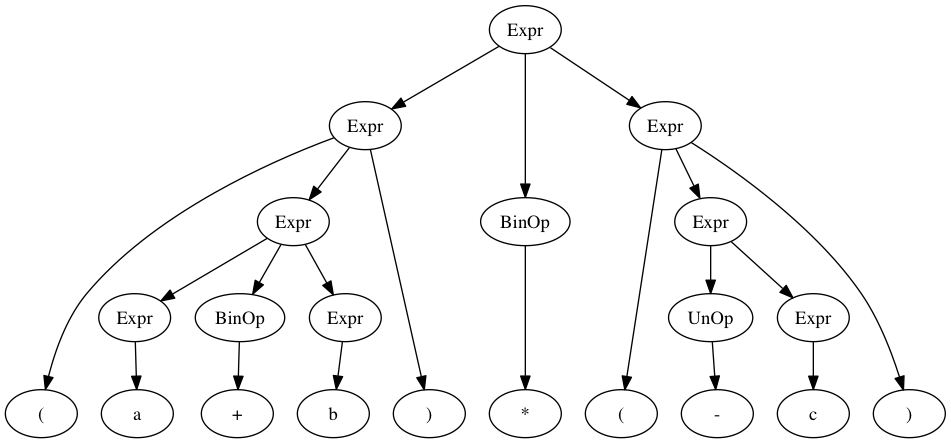
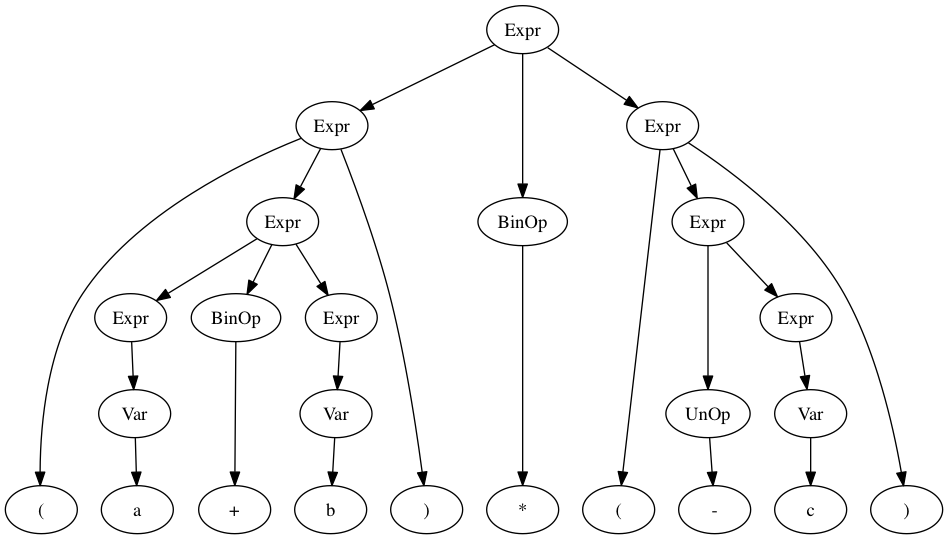
Chain eliminations are stored and reintroduced when returning a finished syntax tree, thereby hiding the eliminations performed by the reductions to Chomsky Normal Form.

diff --git a/Sources/ContextFree/Grammar.swift b/Sources/ContextFree/Grammar.swift
@@ -58,40 +58,65 @@ public struct Grammar {
 		return (try? generateSyntaxTree(for: word)) != nil
 	}
 	
+	private func tokenize(word: String, from startIndex: String.Index, finalProductions: [Production]) throws -> [[Tree<Production, Range<String.Index>>]] {
+		if word[startIndex...].isEmpty {
+			return []
+		}
+		let matches = finalProductions.filter { production -> Bool in
+			word.hasPrefix(production.generatedTerminals, from: startIndex)
+		}
+		guard let first = matches.first, let firstMatchRange = word.rangeOfPrefix(first.generatedTerminals, from: startIndex) else {
+			throw SyntaxError.unknownSequence(from: String(word[startIndex...]))
+		}
+		
+		let restTokenization = try tokenize(word: word, from: firstMatchRange.upperBound, finalProductions: finalProductions)
+		let matchTrees = matches.flatMap { production -> Tree<Production, Range<String.Index>>? in
+			Tree(key: production, children: [Tree(value: firstMatchRange)])
+		}
+		//TODO: Make this method tail recursive
+		return [matchTrees] + restTokenization
+	}
+	
+	private func generateError(_ cykTable: Array<[[Tree<Production, Range<String.Index>>]]>) -> SyntaxError {
+		let memberRows = (0..<cykTable.count).map { columnIndex -> Int? in
+			(0 ..< (cykTable.count - columnIndex)).reduce(nil) { maxIndex, rowIndex -> Int? in
+				if cykTable[rowIndex][columnIndex].contains(where: { tree -> Bool in
+					tree.root?.pattern == start
+				}) {
+					return rowIndex
+				}
+				return maxIndex
+			}
+		}
+		
+		if let firstMember = memberRows[0] {
+			return SyntaxError.unmatchedPattern(pattern: remakeSingularProductions(cykTable[0][firstMember+1][0]))
+		} else {
+			return SyntaxError.unmatchedPattern(pattern: remakeSingularProductions(cykTable[0][0][0]))
+		}
+	}
+	
+	private func remakeSingularProductions(_ tree: Tree<Production, Range<String.Index>>) -> Tree<NonTerminal, Range<String.Index>> {
+		switch tree {
+		case .leaf(let leaf):
+			return .leaf(leaf)
+			
+		case .node(key: let production, children: let children):
+			guard let chain = production.nonTerminalChain else {
+				return .node(key: production.pattern, children: children.map(remakeSingularProductions))
+			}
+			let newNode = chain.reversed().reduce(children.map(remakeSingularProductions)) { (childNodes, nonTerminal) -> [Tree<NonTerminal, Range<String.Index>>] in
+				[Tree.node(key: nonTerminal, children: childNodes)]
+			}
+			return .node(key: production.pattern, children: newNode)
+		}
+	}
+	
 	public func generateSyntaxTree(`for` word: String) throws -> Tree<NonTerminal, Range<String.Index>> {
 		let finalProductions = productions.filter(\.isFinal)
 		
 		// Tokenizes a word based on the production rules
-		func tokenize(word: String, from startIndex: String.Index) throws -> [[Tree<NonTerminal, Range<String.Index>>]] {
-			if word[startIndex...].isEmpty {
-				return []
-			}
-			let matches = finalProductions.filter { production -> Bool in
-				word.hasPrefix(production.generatedTerminals, from: startIndex)
-			}
-			guard let first = matches.first, let firstMatchRange = word.rangeOfPrefix(first.generatedTerminals, from: startIndex) else {
-				throw SyntaxError.unknownSequence(from: String(word[startIndex...]))
-			}
-			
-			//let firstMatchString = String(word[firstMatchRange])
-			
-			//TODO: Do not cut string, just instruct subsequent calls to only search after match range
-			// This would also improve performance
-//			let rest = { () -> String in
-//				var rest = word
-//				rest.removeSubrange(firstMatchRange)
-//				return rest
-//			}()
-			
-			let restTokenization = try tokenize(word: word, from: firstMatchRange.upperBound)
-			let matchTrees = matches.flatMap { production -> Tree<NonTerminal, Range<String.Index>>? in
-				Tree(key: production.pattern, children: [Tree(value: firstMatchRange)])
-			}
-			//TODO: Make this method tail recursive
-			return [matchTrees] + restTokenization
-		}
-		
-		let tokenization = try tokenize(word: word, from: word.startIndex)
+		let tokenization = try tokenize(word: word, from: word.startIndex, finalProductions: finalProductions)
 		let nonTerminalProductions = Dictionary(grouping: productions.filter{!$0.isFinal}) { production -> NonTerminalString in
 			NonTerminalString(characters: production.generatedNonTerminals)
 		}
@@ -108,24 +133,24 @@ public struct Grammar {
 		
 		// CYK-Algorithm
 		
-		var cykTable = Array<[[Tree<NonTerminal, Range<String.Index>>]]>(repeating: [], count: tokenization.count)
+		var cykTable = Array<[[Tree<Production, Range<String.Index>>]]>(repeating: [], count: tokenization.count)
 		cykTable[0] = tokenization
 		
 		for row in 1 ..< cykTable.count {
 			let upperBound = cykTable.count - row
 			
-			cykTable[row] = (0..<upperBound).map { column -> [Tree<NonTerminal, Range<String.Index>>] in
-				(1...row).flatMap { offset -> [Tree<NonTerminal, Range<String.Index>>] in
+			cykTable[row] = (0..<upperBound).map { column -> [Tree<Production, Range<String.Index>>] in
+				(1...row).flatMap { offset -> [Tree<Production, Range<String.Index>>] in
 					let ref1Row = row - offset
 					let ref2Col = column + row - offset + 1
 					let ref2Row = offset - 1
 					
-					return crossProduct(cykTable[ref1Row][column], cykTable[ref2Row][ref2Col]).flatMap { nonTerminals -> [Tree<NonTerminal, Range<String.Index>>] in
-						let (leftNonTerminal, rightNonTerminal) = nonTerminals
-						let combinedString = NonTerminalString(characters: [leftNonTerminal.root!, rightNonTerminal.root!])
-						let possibleProductions = nonTerminalProductions[combinedString, default: []].map(\Production.pattern)
-						return possibleProductions.map { pattern -> Tree<NonTerminal, Range<String.Index>> in
-							Tree(key: pattern, children: [leftNonTerminal, rightNonTerminal])
+					return crossProduct(cykTable[ref1Row][column], cykTable[ref2Row][ref2Col]).flatMap { treePair -> [Tree<Production, Range<String.Index>>] in
+						let (leftTree, rightTree) = treePair
+						let combinedString = NonTerminalString(characters: [leftTree.root!.pattern, rightTree.root!.pattern])
+						let possibleProductions = nonTerminalProductions[combinedString, default: []]
+						return possibleProductions.map { pattern -> Tree<Production, Range<String.Index>> in
+							return Tree(key: pattern, children: [leftTree, rightTree])
 						}
 					}
 				}
@@ -135,28 +160,12 @@ public struct Grammar {
 		// If a given word is not a member of the language generated by this grammar
 		// an error will be computed that returns the first and largest structure
 		// in the syntax tree that the parser was unable to process.
-		
 		guard let syntaxTree = cykTable[cykTable.count-1][0].first(where: { tree -> Bool in
-			tree.root == start
+			tree.root?.pattern == start
 		}) else {
-			let memberRows = (0..<cykTable.count).map { columnIndex -> Int? in
-				(0 ..< (cykTable.count - columnIndex)).reduce(nil) { maxIndex, rowIndex -> Int? in
-					if cykTable[rowIndex][columnIndex].contains(where: { tree -> Bool in
-						tree.root == start
-					}) {
-						return rowIndex
-					}
-					return maxIndex
-				}
-			}
-			
-			if let firstMember = memberRows[0] {
-				throw SyntaxError.unmatchedPattern(pattern: cykTable[0][firstMember+1][0])
-			} else {
-				throw SyntaxError.unmatchedPattern(pattern: cykTable[0][0][0])
-			}
+			throw generateError(cykTable)
 		}
-		return syntaxTree.explode(normalizationNonTerminals.contains)[0]
+		return remakeSingularProductions(syntaxTree).explode(normalizationNonTerminals.contains)[0]
 	}
 }
 

diff --git a/Sources/ContextFree/Normalization.swift b/Sources/ContextFree/Normalization.swift
@@ -130,9 +130,9 @@ extension Grammar {
 	static func eliminateChainProductions(productions: [Production]) -> [Production] {
 		let nonTerminalProductions = Dictionary(grouping: productions, by: {$0.pattern})
 		
-		func findNonChainProduction(from start: Production, visited: Set<NonTerminal>) -> [Production] {
+		func findNonChainProduction(from start: Production, visited: Set<NonTerminal>, path: [NonTerminal]) -> [(Production, [NonTerminal])] {
 			if start.isFinal || start.generatedNonTerminals.count != 1 {
-				return [start]
+				return [(start, path)]
 			} else if visited.contains(start.pattern) {
 				return []
 			}
@@ -140,13 +140,14 @@ extension Grammar {
 			let nonTerminal = start.generatedNonTerminals[0]
 			let reachableProductions = nonTerminalProductions[nonTerminal]!
 			
-			return reachableProductions.flatMap{findNonChainProduction(from: $0, visited: visited.union([start.pattern]))}
+			return reachableProductions.flatMap{findNonChainProduction(from: $0, visited: visited.union([start.pattern]), path: path + [nonTerminal])}
 		}
 		
 		return productions.flatMap { production -> [Production] in
-			let nonChainProductions = findNonChainProduction(from: production, visited: [])
-			return nonChainProductions.map { p -> Production in
-				Production(pattern: production.pattern, production: p.production)
+			let nonChainProductions = findNonChainProduction(from: production, visited: [], path: [])
+			return nonChainProductions.map { element -> Production in
+				let (p, chain) = element
+				return Production(pattern: production.pattern, production: p.production, chain: chain)
 			}
 		}
 	}

diff --git a/Sources/ContextFree/Productions.swift b/Sources/ContextFree/Productions.swift
@@ -29,14 +29,18 @@ public struct Production {
 	public let pattern: NonTerminal
 	public let production: [Symbol]
 	
+	let nonTerminalChain: [NonTerminal]?
+	
 	public init(pattern: NonTerminal, production: ProductionString) {
 		self.pattern = pattern
 		self.production = production.characters
+		self.nonTerminalChain = nil
 	}
 	
-	init(pattern: NonTerminal, production: [Symbol]) {
+	init(pattern: NonTerminal, production: [Symbol], chain: [NonTerminal]? = nil) {
 		self.pattern = pattern
 		self.production = production
+		self.nonTerminalChain = chain
 	}
 	
 	public var isLinear: Bool {
@@ -229,6 +233,18 @@ extension Production: Hashable {
 extension Production: CustomStringConvertible {
 	public var description: String {
 		return "\(pattern.name) --> \(production.map{$0.description}.joined(separator: " "))"
+	}
+}
+
+extension Production: CustomDebugStringConvertible {
+	public var debugDescription: String {
+		return """
+		production {
+			pattern: \(self.pattern)
+			produces: \(self.production.map(\.description))
+			chain: \(self.nonTerminalChain?.map(\.description).joined(separator: ", ") ?? "empty")
+		}
+		"""
 	}
 }
 

diff --git a/README.md b/README.md
@@ -1,6 +1,6 @@
 # ContextFree
 
-ContextFree is a parser for languages generated by context free grammars written in Swift.
+ContextFree is a parser for languages generated by nondeterministic or deterministic context free grammars written in Swift.
 
 For a given set of productions the parser is able to
 produce a syntax tree for a word contained in the language
